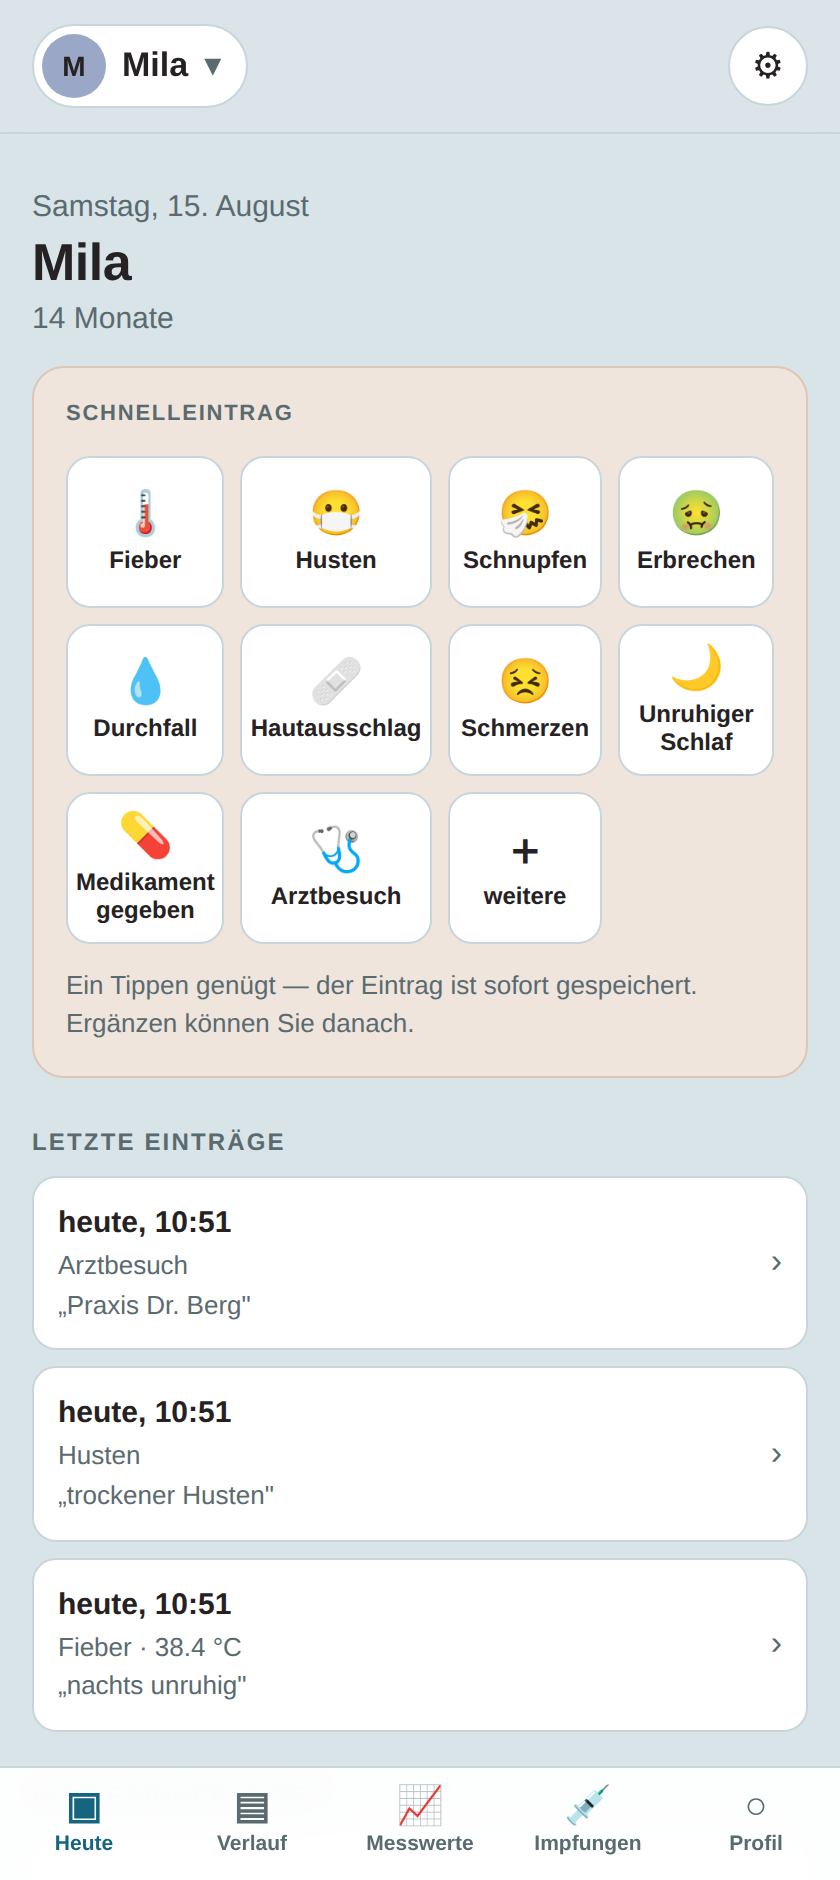
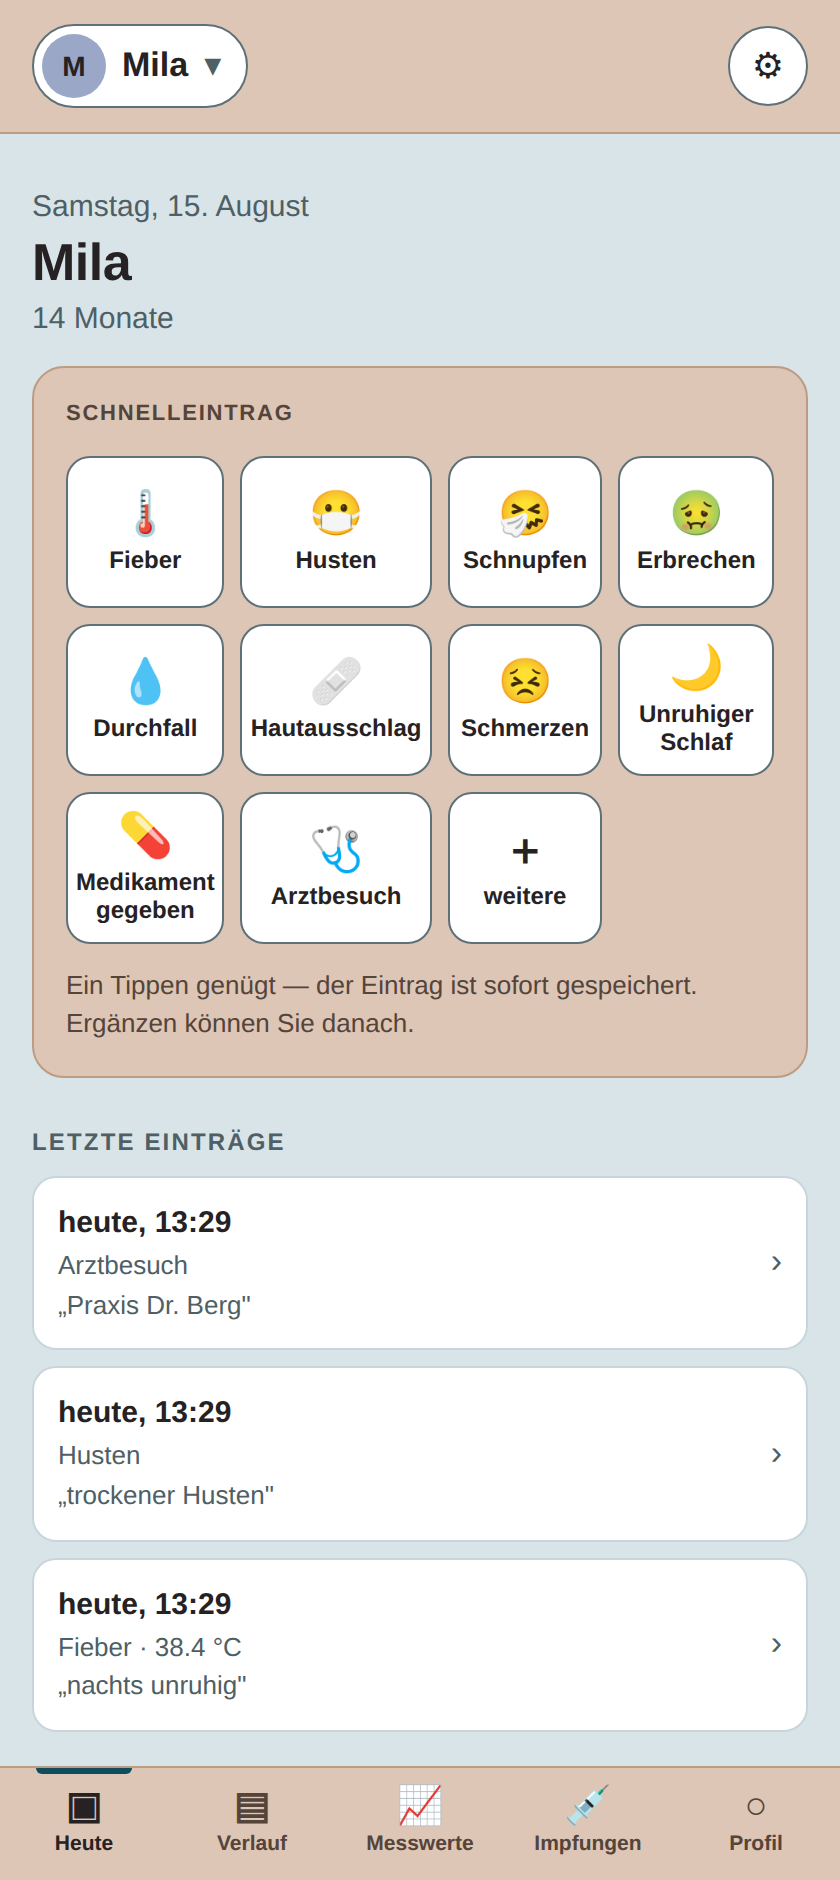
Make #DDC6B6 the app's main colour, enforce contrast in CI
The brand colour now carries the frame — top bar, tab bar and the quick
entry panel — so it is present on every screen instead of appearing only
on two tile variants.

Its roles stay separated, because the colour reaches 1.64:1 on white and
cannot carry text or a control fill. New tokens for surfaces built on it:
--brand-muted for secondary text (5.66:1), --brand-line for the edge of
controls sitting on it (3.12:1), --brand-strong for its own boundary.
The active tab is marked by weight, text colour and an indicator bar
rather than colour alone.

Adds scripts/check-contrast.mjs, which parses tokens.css and recomputes
every pair against WCAG 2.1 for both themes. It also asserts that two
pairs still fail — brand and accent as text on white — so that dissolving
the role separation breaks the build rather than passing silently.

That check found two real defects:

- --border-strong was 2.16:1 on white, below the 3:1 that WCAG 1.4.11
  requires for input field boundaries. Now 4.10:1.
- --text-muted was 4.30:1 on the page background, below 4.5:1. Now 5.15:1.

A white chip reaches only 1.64:1 against the brand panel, so its fill
alone does not delimit it; the edge now carries that at 3.12:1.

Claude-Session: https://claude.ai/code/session_01BomZ1uPuTT3CEf2Yc2SG2a

diff --git a/app/src/styles/global.css b/app/src/styles/global.css
@@ -102,9 +102,9 @@ input, select, textarea {
   align-items: center;
   gap: var(--space-2);
   padding: var(--space-3) var(--space-4);
-  background: color-mix(in srgb, var(--bg) 88%, transparent);
-  backdrop-filter: blur(12px);
-  border-bottom: 1px solid var(--border);
+  background: var(--brand);
+  color: var(--brand-ink);
+  border-bottom: 1px solid var(--brand-strong);
 }
 
 .child-switch {
@@ -113,7 +113,7 @@ input, select, textarea {
   gap: var(--space-2);
   min-height: 40px;
   padding: 4px 12px 4px 4px;
-  border: 1px solid var(--border);
+  border: 1px solid var(--brand-line);
   border-radius: var(--radius-pill);
   background: var(--surface);
 }
@@ -137,7 +137,7 @@ input, select, textarea {
   height: 40px;
   display: grid;
   place-items: center;
-  border: 1px solid var(--border);
+  border: 1px solid var(--brand-line);
   border-radius: var(--radius-pill);
   background: var(--surface);
   font-size: 18px;
@@ -190,11 +190,20 @@ input, select, textarea {
 /* ---------- Quick-Chips ---------- */
 
 .quickbar {
-  background: var(--brand-soft);
-  border: 1px solid var(--brand);
+  background: var(--brand);
+  border: 1px solid var(--brand-strong);
   border-radius: var(--radius-tile);
   padding: var(--space-4);
+  color: var(--brand-ink);
 }
+
+/* Auf der Marke gilt die Marken-Textrolle, nicht die allgemeine. */
+.quickbar .tile__label { color: var(--brand-muted); }
+.quickbar .muted { color: var(--brand-muted); }
+
+/* Die Füllung einer Kachel erreicht gegen die Hauptfarbe nur 1,64:1. Die
+   Abgrenzung muss deshalb die Kante tragen — --brand-line liegt bei 3,12:1. */
+.quickbar .chip { border-color: var(--brand-line); }
 
 .chips {
   display: grid;
@@ -361,13 +370,13 @@ input, select, textarea {
   grid-template-columns: repeat(5, 1fr);
   max-width: 560px;
   margin: 0 auto;
-  background: color-mix(in srgb, var(--surface) 94%, transparent);
-  backdrop-filter: blur(12px);
-  border-top: 1px solid var(--border);
+  background: var(--brand);
+  border-top: 1px solid var(--brand-strong);
   padding-bottom: env(safe-area-inset-bottom);
 }
 
 .tabbar__item {
+  position: relative;
   min-height: 56px;
   display: flex;
   flex-direction: column;
@@ -378,10 +387,24 @@ input, select, textarea {
   border: none;
   font-size: 10.5px;
   font-weight: 600;
-  color: var(--text-muted);
+  color: var(--brand-muted);
 }
 
-.tabbar__item[aria-current='true'] { color: var(--action); }
+.tabbar__item[aria-current='true'] {
+  color: var(--brand-ink);
+  font-weight: 800;
+}
+
+.tabbar__item[aria-current='true']::before {
+  content: '';
+  position: absolute;
+  top: 0;
+  left: 22%;
+  right: 22%;
+  height: 3px;
+  border-radius: 0 0 3px 3px;
+  background: var(--action-hover);
+}
 .tabbar__icon { font-size: 19px; line-height: 1; }
 
 /* ---------- Listen ---------- */

diff --git a/app/src/styles/tokens.css b/app/src/styles/tokens.css
@@ -1,18 +1,29 @@
 /*
- * Design-System-Tokens (PRD §4.0).
+ * Design-System-Tokens.
  *
- * Zentrale Korrektur gegenüber der Ursprungsvorlage: #DDC6B6 erreicht auf Weiß
- * nur ca. 1,4:1 und ist damit als Button- oder Textfarbe unbrauchbar (WCAG
- * fordert 3:1 für Bedienelemente, 4,5:1 für Text). Die Farbe bleibt deshalb
- * Flächen- und Markenfarbe mit dunklem Text darauf; die Handlungsfarbe ist ein
- * abgedunkeltes Derivat der Sekundärfarbe #65ABC4.
+ * #DDC6B6 ist die Hauptfarbe der Anwendung. Sie trägt den Rahmen — Kopfzeile,
+ * Fußnavigation, Schnelleingabe — und ist damit auf jedem Bildschirm präsent.
+ *
+ * Als Textfarbe oder Bedienelement-Füllung ist sie dagegen nicht verwendbar:
+ * Auf Weiß erreicht sie 1,64:1, WCAG fordert 3:1 für Bedienelemente und 4,5:1
+ * für Text. Deshalb die Trennung:
+ *
+ *   --brand        Fläche. Darauf immer --brand-ink oder --brand-muted.
+ *   --action       Bedienelemente auf hellem Grund (6,57:1 gegen Weiß).
+ *   --accent       ausschließlich dekorativ, nie Text (2,57:1 gegen Weiß).
+ *
+ * Alle Paare sind in scripts/check-contrast.mjs hinterlegt und werden bei
+ * `npm run check:contrast` gegen diese Datei nachgerechnet.
  */
 
 :root {
-  /* Markenfarben — Flächen, niemals als Textfarbe auf Weiß */
+  /* Hauptfarbe — Flächen und Rahmen, niemals als Textfarbe auf Weiß */
   --brand: #ddc6b6;
   --brand-soft: #f0e5dd;
-  --brand-ink: #262223;
+  --brand-strong: #bc9c82;      /* sichtbare Kante auf --brand */
+  --brand-ink: #262223;         /* Haupttext AUF --brand — 9,61:1 */
+  --brand-muted: #54443a;       /* Sekundärtext AUF --brand — 5,66:1 */
+  --brand-line: #5e7178;        /* Kante von Bedienelementen AUF --brand — 3,12:1 */
 
   /* Handlungsfarbe: aus #65ABC4 abgedunkelt auf ca. 5:1 gegen Weiß */
   --action: #16657e;
@@ -26,7 +37,7 @@
 
   --text: #262223;
   --text-secondary: #023441;
-  --text-muted: #5a6b70;
+  --text-muted: #4e5f65;   /* 5,15:1 auf --bg, 6,67:1 auf Weiß */
 
   --warning: #e88c2b;
   --warning-ink: #6b3a00;
@@ -37,7 +48,7 @@
   --ok-soft: #e4f0ea;
 
   --border: #c8d6db;
-  --border-strong: #9fb4bb;
+  --border-strong: #6b8189;   /* 4,10:1 auf Weiß — WCAG 1.4.11 für Feldränder */
 
   --radius-tile: 16px;
   --radius-control: 12px;
@@ -63,7 +74,10 @@
 :root[data-theme='dark'] {
   --brand: #6a5749;
   --brand-soft: #332c27;
-  --brand-ink: #f2ece7;
+  --brand-strong: #8b7565;
+  --brand-ink: #f2ece7;         /* 5,84:1 auf --brand */
+  --brand-muted: #e3dad3;
+  --brand-line: #c9bdb2;
 
   --action: #7fc2da;
   --action-hover: #a5d5e6;
@@ -87,7 +101,7 @@
   --ok-soft: #163023;
 
   --border: #2e3a3e;
-  --border-strong: #47565b;
+  --border-strong: #687c84;
 
   --shadow-tile: 0 1px 2px rgba(0, 0, 0, 0.4);
   --shadow-sheet: 0 -8px 40px rgba(0, 0, 0, 0.6);

diff --git a/CLAUDE.md b/CLAUDE.md
@@ -84,26 +84,47 @@ Themen laufen über Attribute am Wurzelelement, gesetzt in
 **Regel:** Ein neuer Token wird in **allen drei** Blöcken gepflegt. Ein Token, der
 nur im hellen Thema existiert, ist ein Bug.
 
-### 1.2 Die Farbhierarchie und warum sie von der Vorlage abweicht
+### 1.2 Die Farbhierarchie
 
-Die Vorlage nennt `#DDC6B6` als Farbe für „Buttons, Highlights". Das ist nicht
-umsetzbar: Auf Weiß erreicht `#DDC6B6` ein Kontrastverhältnis von etwa **1,4:1**,
-WCAG fordert 3:1 für Bedienelemente und 4,5:1 für Text. Ein Button in dieser Farbe
-ist bei Sonnenlicht oder mit Sehschwäche unbedienbar.
+`#DDC6B6` ist die **Hauptfarbe der Anwendung**. Sie trägt den Rahmen — Kopfzeile,
+Fußnavigation, Schnelleingabe — und ist damit auf jedem Bildschirm präsent.
 
-**Umgesetzte Trennung:**
+Als Textfarbe oder Füllung eines Bedienelements ist sie dagegen nicht verwendbar:
+Auf Weiß erreicht sie **1,64:1**, WCAG fordert 3:1 für Bedienelemente und 4,5:1 für
+Text. Daraus ergibt sich keine Abschwächung der Marke, sondern eine Rollentrennung:
 
 | Rolle | Token | Wert | Verwendung |
 |---|---|---|---|
-| Marke, Flächen | `--brand` | `#DDC6B6` | Kachelhintergrund, Ruhezonen — **immer** mit `--brand-ink` als Textfarbe |
-| Handlung | `--action` | `#16657E` | alle Buttons, aktive Zustände, Fokusring, Links |
-| Akzent | `--accent` | `#65ABC4` | Diagrammlinien, Ränder, Flächen — **nie** als Textfarbe |
+| Hauptfarbe, Flächen | `--brand` | `#DDC6B6` | Kopfzeile, Fußnavigation, Schnelleingabe, Ruhezonen |
+| Text darauf | `--brand-ink` | `#262223` | 9,61:1 auf `--brand` |
+| Sekundärtext darauf | `--brand-muted` | `#54443A` | 5,66:1 auf `--brand` |
+| Kante darauf | `--brand-line` | `#5E7178` | 3,12:1 — Bedienelemente auf `--brand` abgrenzen |
+| Trennlinie darauf | `--brand-strong` | `#BC9C82` | Kante der Marken-Flächen |
+| Handlung | `--action` | `#16657E` | Buttons, Auswahlzustände, Fokusring |
+| Akzent | `--accent` | `#65ABC4` | Diagramme, Ränder — **nie** als Textfarbe (2,57:1) |
 
-`--action` ist ein abgedunkeltes Derivat der Sekundärfarbe `#65ABC4` mit rund 5:1
-gegen Weiß. Der warme Markencharakter bleibt über die Flächen erhalten.
+**Warum die Kante auf der Marke eigene Aufmerksamkeit braucht:** Eine weiße Kachel
+erreicht gegen `#DDC6B6` nur 1,64:1. Die Füllung allein grenzt sie also nicht
+erkennbar ab — das muss die Kante leisten, deshalb `--brand-line` mit 3,12:1.
+
+**Aktiver Zustand in der Fußnavigation** unterscheidet sich über Schriftschnitt
+(800 statt 600), Textfarbe (`--brand-ink` statt `--brand-muted`) **und** einen
+Indikatorbalken in `--action-hover` — nie über Farbe allein.
 
 Kommt aus Figma ein Primärbutton in `#DDC6B6`, wird er auf `--action` gemappt und
 die Abweichung im PR vermerkt.
+
+#### Die Kontrastregel ist durchgesetzt, nicht dokumentiert
+
+```bash
+cd app && npm run check:contrast
+```
+
+Das Skript liest die Werte aus `tokens.css` — ein geänderter Token schlägt sofort
+durch — und rechnet beide Themen gegen WCAG 2.1 nach. Es prüft zusätzlich zwei
+Paare, die **scheitern müssen** (`--brand` und `--accent` als Text auf Weiß): Wenn
+die plötzlich bestehen, hat jemand die Rollentrennung aufgelöst. Bricht bei
+Verstoß mit Exit-Code 1 ab und gehört in die CI.
 
 ### 1.3 Nicht-Farb-Tokens
 
@@ -409,7 +430,7 @@ wäre eine Produktentscheidung, keine Design-Übernahme.
 | Anforderung | Umsetzung |
 |---|---|
 | Tap-Ziel ≥ 48 dp | `--tap`, gesetzt auf `.btn`, `.input`, `.chip` (76px) |
-| Kontrast WCAG AA | Handlungsfarbe `--action` ≈ 5:1; `--brand` nur als Fläche |
+| Kontrast WCAG AA | maschinell geprüft über `npm run check:contrast`, beide Themen |
 | Fokus sichtbar | globaler `:focus-visible` mit 3px `--action` |
 | Farbe nie allein | Kalendertage tragen Punkte **und** sind antippbar; Auswahl über `aria-pressed` |
 | Dynamic Type | relative Größen, kein `overflow: hidden` an Textcontainern |
@@ -495,7 +516,7 @@ lassen, dann den Screen bauen.
 3. **Vorhandene Klassen suchen** (Tabelle 2.2), bevor eine neue entsteht.
 4. **Texte nach `i18n/strings.ts`**, DE und EN, dann `npm run check:wording`.
 5. **Screen bauen**, Klassen komponieren, `aria-pressed`/`aria-current` für Zustände.
-6. **Prüfen:** `npm run build && npm run lint && npm run check:wording`.
+6. **Prüfen:** `npm run build && npm run lint && npm run check:wording && npm run check:contrast`.
 7. **Im Browser ansehen** — inklusive dunklem Thema und englischer Oberfläche.
 8. **Abweichungen vom Design im PR benennen**, insbesondere Kontrast- und
    Tap-Ziel-Korrekturen.
@@ -506,5 +527,5 @@ lassen, dann den Screen bauen.
 - Warnfarbe an einem Gesundheitsinhalt → Abschnitt 0.2
 - Neue Laufzeit-Abhängigkeit → Abschnitt 3
 - Text direkt im Screen statt in `strings.ts` → Abschnitt 7.3
-- Tap-Ziel unter 48 dp oder Text auf `--brand` mit zu geringem Kontrast → 6.3
+- Tap-Ziel unter 48 dp oder ein Farbpaar, das `check:contrast` reißt → 1.2, 6.3
 - Nur eine Sprache geliefert → 7.3
